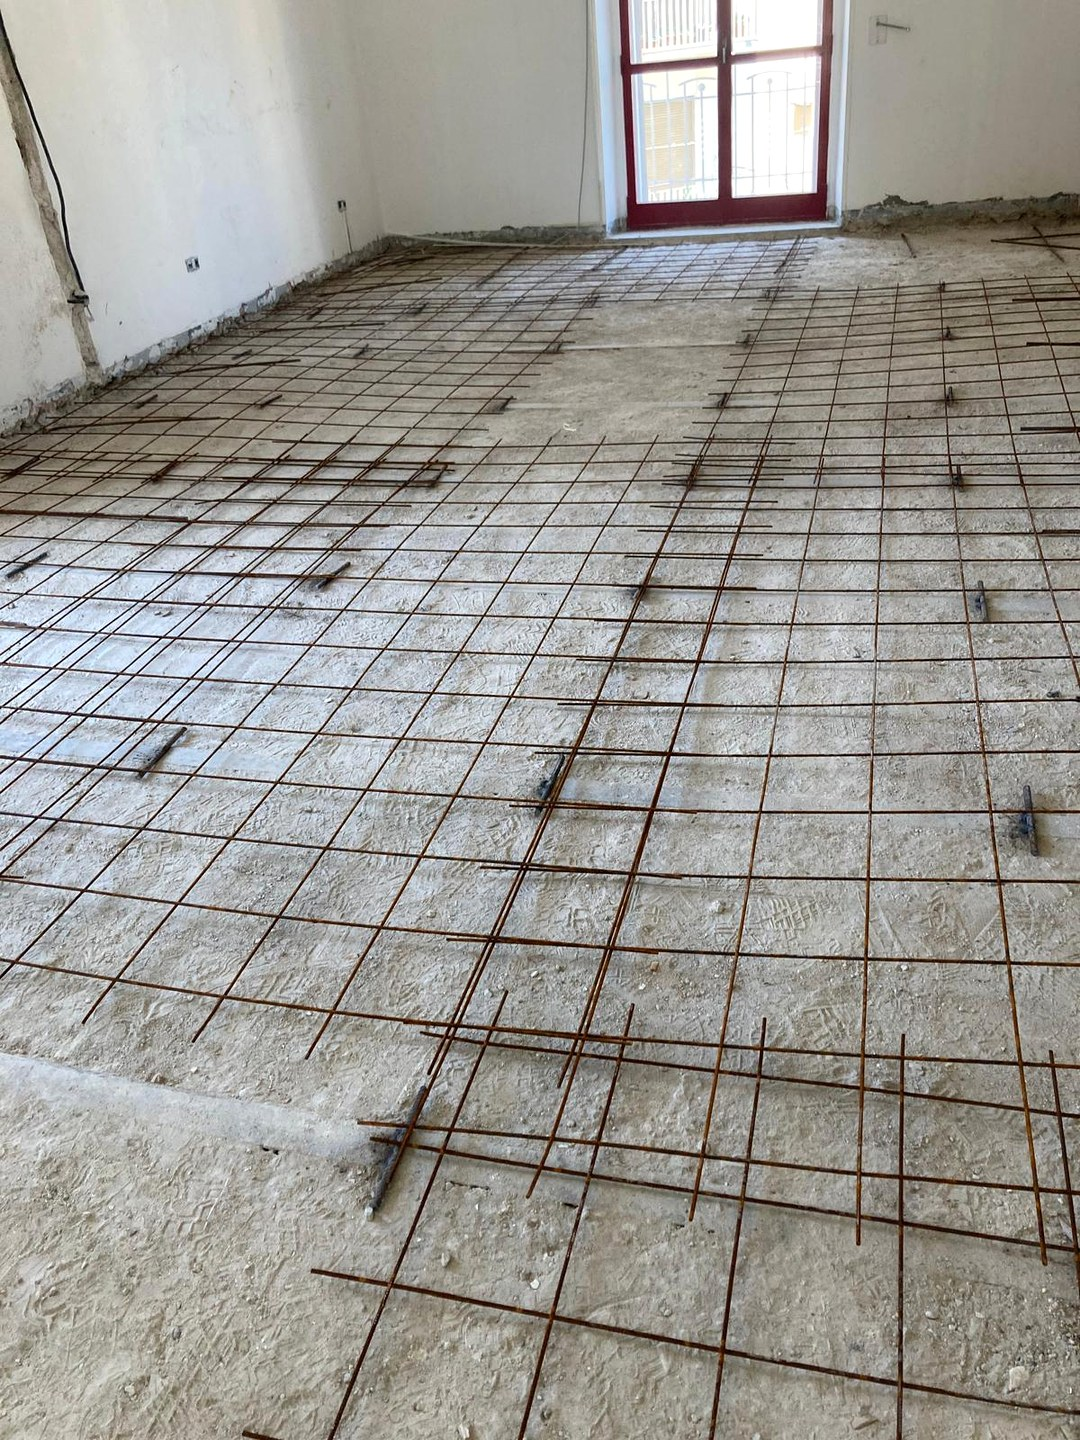
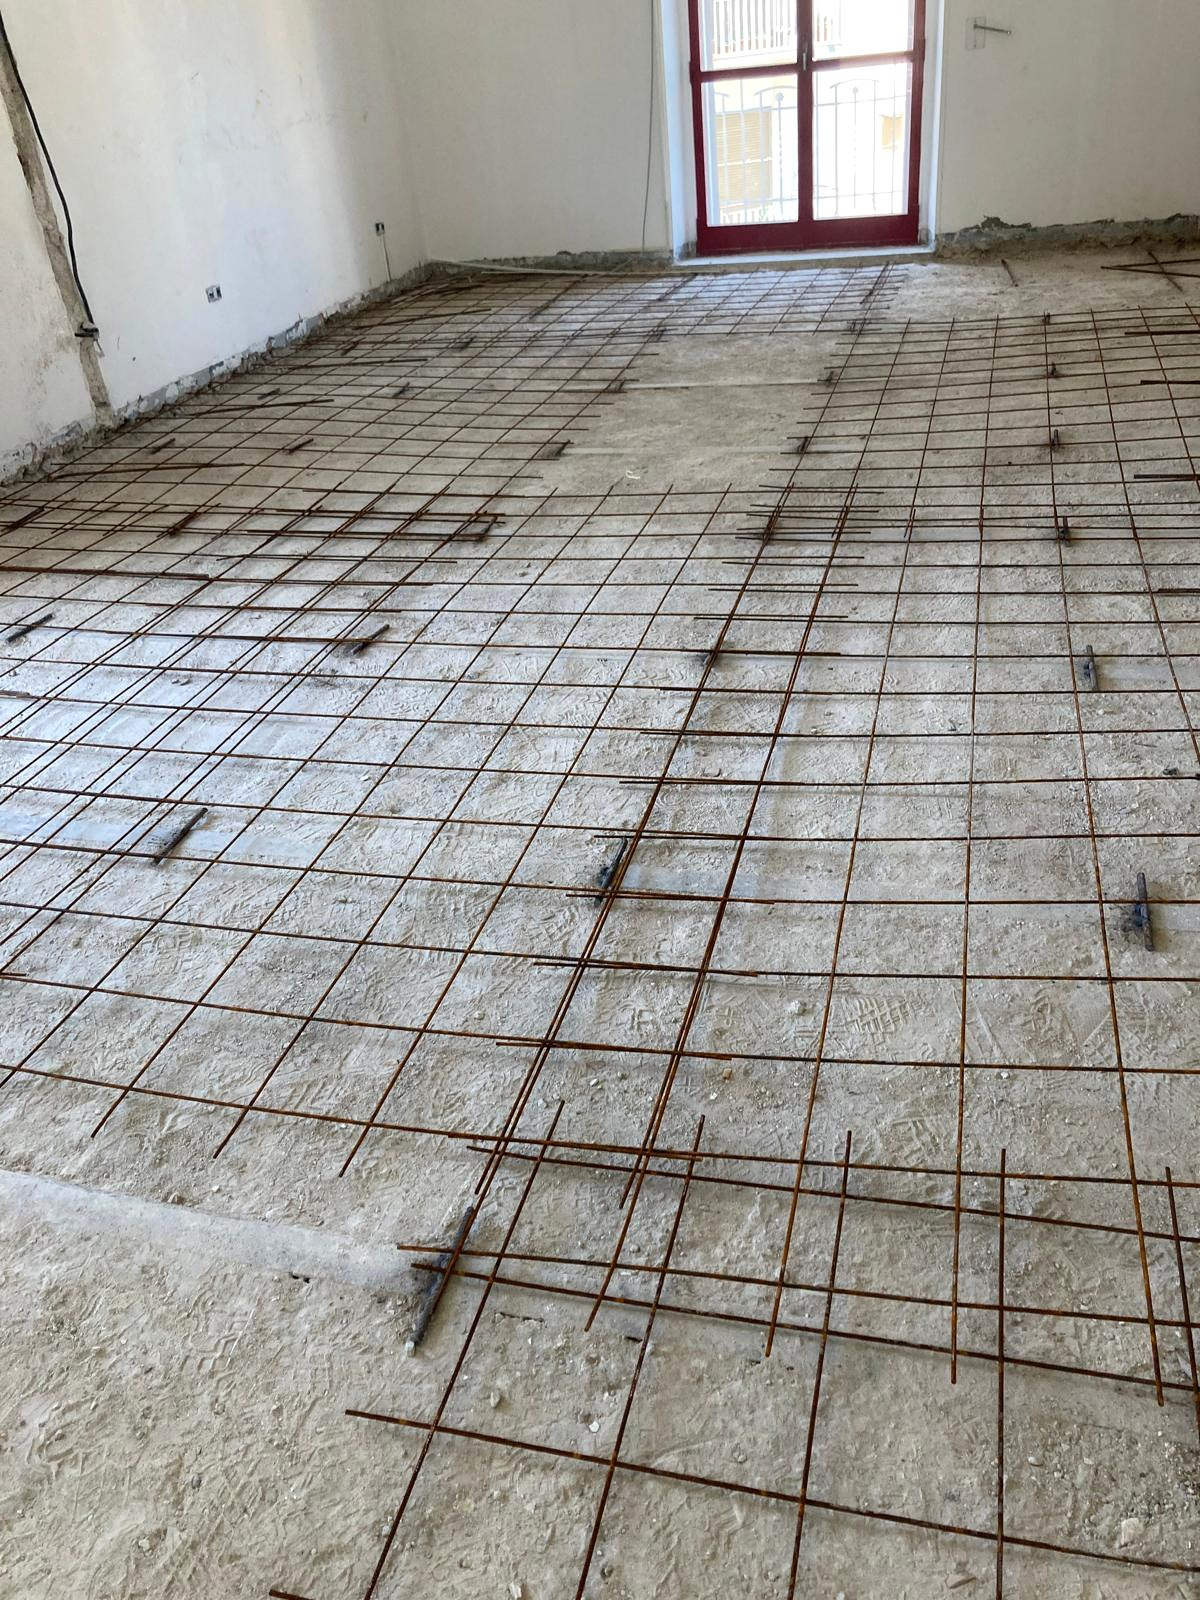
fix: raddrizza immagini storte e aumenta risoluzione galleria
Riprocessate tutte le 15 foto da sorgente con EXIF auto-orient.
Correzione angolo manuale di +2 gradi applicata a waterproofing-done
e terrace-done (orizzonte visibilmente inclinato). Risoluzione
aumentata a 1200x1600 / 1600x1200 per migliore qualita nella galleria.

Changed region(s): [[0.1222, 0.4375, 0.1528, 0.4688], [0.0611, 0.4375, 0.0917, 0.4688]]

diff --git a/src/routes/index.tsx b/src/routes/index.tsx
@@ -35,21 +35,21 @@ const values = [
 ];
 
 const galleryPhotos = [
-  { src: "/works/exterior-hero.jpg",       alt: "Facciata esterna con intonaco e finiture curate",                    caption: "Intonaco e finiture esterne",                           w: 1080, h: 1440 },
-  { src: "/works/waterproofing-done.jpg",  alt: "Impermeabilizzazione tetto con guaina elastomerica rossa",           caption: "Impermeabilizzazione · guaina elastomerica rossa",      w: 1440, h: 1080 },
-  { src: "/works/exterior-detail.jpg",     alt: "Muratura esterna con travi a vista e gronda",                        caption: "Muratura, gronda e travi a vista",                      w: 1080, h: 1440 },
-  { src: "/works/roof-done.jpg",           alt: "Grande superficie impermeabilizzata con guaina nera dall'alto",      caption: "Impermeabilizzazione su grande superficie condominiale", w: 1440, h: 1080 },
-  { src: "/works/terrace-done.jpg",        alt: "Terrazza residenziale completata con pavimentazione e montagne",     caption: "Terrazza residenziale completata",                      w: 1080, h: 1440 },
-  { src: "/works/roof-primer.jpg",         alt: "Applicazione primer su tetto prima della guaina bituminosa",         caption: "Applicazione primer · preparazione impermeabilizzazione", w: 1440, h: 1080 },
-  { src: "/works/roof-rolls-city.jpg",     alt: "Rotoli di guaina bituminosa pronti per la posa su tetto urbano",    caption: "Preparazione cantiere · guaine impermeabilizzanti",     w: 1080, h: 1440 },
-  { src: "/works/roof-rolls-country.jpg",  alt: "Rotoli di guaina bituminosa pronti per la posa in area rurale",     caption: "Materiali in cantiere · guaine elastomeriche",          w: 1440, h: 1080 },
-  { src: "/works/screed-rebar.jpg",        alt: "Rete di armatura metallica posata prima del getto del massetto",    caption: "Rete di armatura · preparazione massetto",              w: 1080, h: 1440 },
-  { src: "/works/screed-work.jpg",         alt: "Operaio durante la posa del massetto armato",                       caption: "Posa massetto armato su rete metallica",                w: 1440, h: 1080 },
-  { src: "/works/screed-pour.jpg",         alt: "Massetto in corso di lavorazione con livellamento a regola d'arte", caption: "Massetto in lavorazione · livellamento",                w: 1080, h: 1440 },
-  { src: "/works/interior-bedroom.jpg",    alt: "Camera risanata con pavimento lucido e pareti tinteggiate",         caption: "Pitturazione e risanamento interno",                    w: 1080, h: 1440 },
-  { src: "/works/interior-living.jpg",     alt: "Soggiorno con pareti tinteggiate e affaccio sulla terrazza",        caption: "Tinteggiatura soggiorno",                               w: 1440, h: 1080 },
-  { src: "/works/interior-sofa.jpg",       alt: "Interno con travi a vista e pareti tinteggiate",                    caption: "Pitturazione interni · travi a vista",                  w: 1080, h: 1440 },
-  { src: "/works/interior-study.jpg",      alt: "Studio con pareti bianche e pavimento in legno",                    caption: "Tinteggiatura studio · pavimento legno",                w: 1080, h: 1440 },
+  { src: "/works/exterior-hero.jpg",       alt: "Facciata esterna con intonaco e finiture curate",                    caption: "Intonaco e finiture esterne",                           w: 1200, h: 1600 },
+  { src: "/works/waterproofing-done.jpg",  alt: "Impermeabilizzazione tetto con guaina elastomerica rossa",           caption: "Impermeabilizzazione · guaina elastomerica rossa",      w: 1600, h: 1200 },
+  { src: "/works/exterior-detail.jpg",     alt: "Muratura esterna con travi a vista e gronda",                        caption: "Muratura, gronda e travi a vista",                      w: 1200, h: 1600 },
+  { src: "/works/roof-done.jpg",           alt: "Grande superficie impermeabilizzata con guaina nera dall'alto",      caption: "Impermeabilizzazione su grande superficie condominiale", w: 1600, h: 1200 },
+  { src: "/works/terrace-done.jpg",        alt: "Terrazza residenziale completata con pavimentazione e montagne",     caption: "Terrazza residenziale completata",                      w: 1200, h: 1600 },
+  { src: "/works/roof-primer.jpg",         alt: "Applicazione primer su tetto prima della guaina bituminosa",         caption: "Applicazione primer · preparazione impermeabilizzazione", w: 1600, h: 1200 },
+  { src: "/works/roof-rolls-city.jpg",     alt: "Rotoli di guaina bituminosa pronti per la posa su tetto urbano",    caption: "Preparazione cantiere · guaine impermeabilizzanti",     w: 1200, h: 1600 },
+  { src: "/works/roof-rolls-country.jpg",  alt: "Rotoli di guaina bituminosa pronti per la posa in area rurale",     caption: "Materiali in cantiere · guaine elastomeriche",          w: 1600, h: 1200 },
+  { src: "/works/screed-rebar.jpg",        alt: "Rete di armatura metallica posata prima del getto del massetto",    caption: "Rete di armatura · preparazione massetto",              w: 1200, h: 1600 },
+  { src: "/works/screed-work.jpg",         alt: "Operaio durante la posa del massetto armato",                       caption: "Posa massetto armato su rete metallica",                w: 1600, h: 1200 },
+  { src: "/works/screed-pour.jpg",         alt: "Massetto in corso di lavorazione con livellamento a regola d'arte", caption: "Massetto in lavorazione · livellamento",                w: 1200, h: 1600 },
+  { src: "/works/interior-bedroom.jpg",    alt: "Camera risanata con pavimento lucido e pareti tinteggiate",         caption: "Pitturazione e risanamento interno",                    w: 1200, h: 1600 },
+  { src: "/works/interior-living.jpg",     alt: "Soggiorno con pareti tinteggiate e affaccio sulla terrazza",        caption: "Tinteggiatura soggiorno",                               w: 1600, h: 1200 },
+  { src: "/works/interior-sofa.jpg",       alt: "Interno con travi a vista e pareti tinteggiate",                    caption: "Pitturazione interni · travi a vista",                  w: 1200, h: 1600 },
+  { src: "/works/interior-study.jpg",      alt: "Studio con pareti bianche e pavimento in legno",                    caption: "Tinteggiatura studio · pavimento legno",                w: 1200, h: 1600 },
 ];
 
 function GalleryCarousel() {
